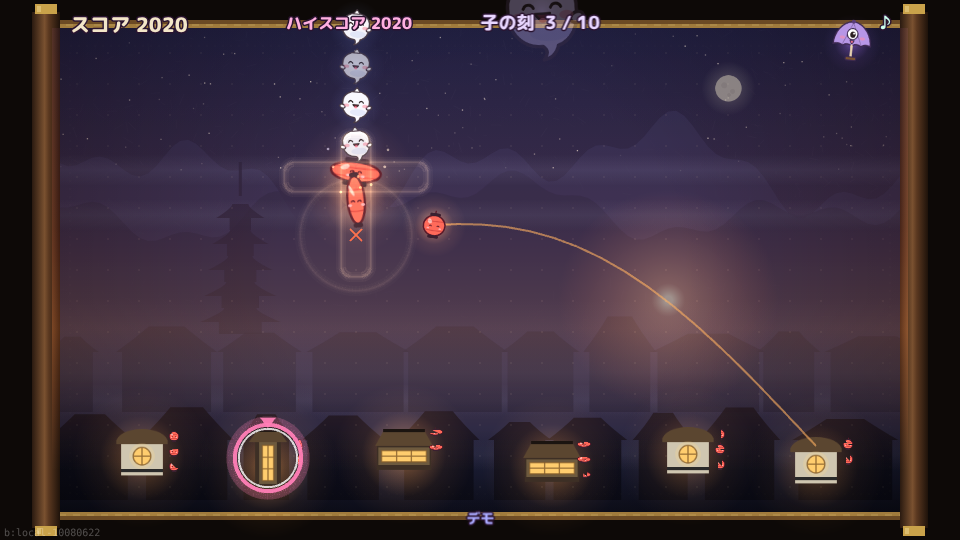
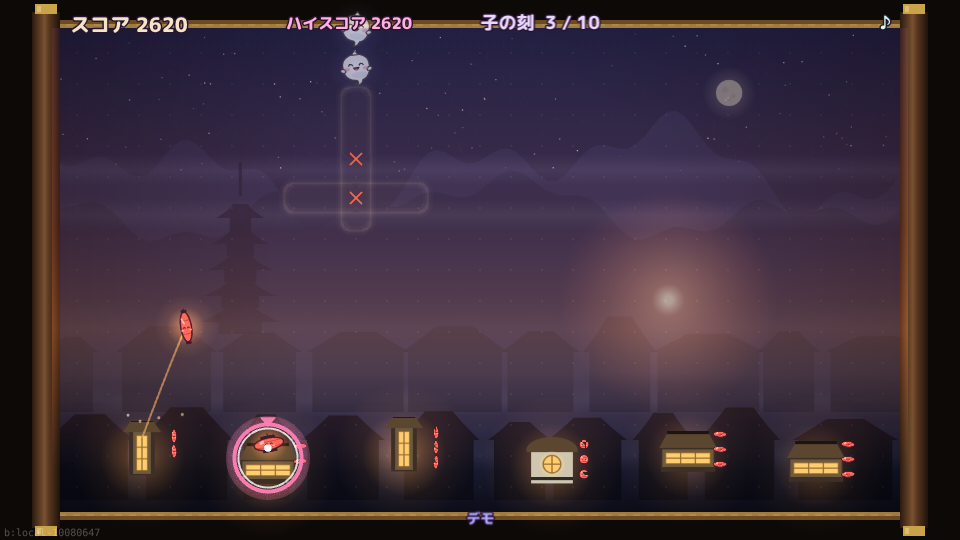
18 回目: コンボで高くきれいな鐘が上がる・締めのピンポンパーン・やられた声 5 種・やられた顔(＞＜ / ×)
Claude-Session: https://claude.ai/code/session_011ZQ4bN2MTkz7EzzsNRZLay

diff --git a/src/game/art.ts b/src/game/art.ts
@@ -75,6 +75,12 @@ export function makeArt(scene: Phaser.Scene) {
   make(scene, 'g_giant', 160, 170, (c) => { c.scale(2.5, 2.5); drawFuwa(c); });
   make(scene, 'g_oni', 64, 68, drawOnibi);
   make(scene, 'g_kasa', 64, 72, drawKarakasa);
+  // やられた顔(＞＜ や ×)
+  make(scene, 'g_fuwa_ko', 64, 68, (c) => drawFuwa(c, true));
+  make(scene, 'g_oni_ko', 64, 68, (c) => drawOnibi(c, true));
+  make(scene, 'g_kasa_ko', 64, 72, (c) => drawKarakasa(c, true));
+  make(scene, 'g_big_ko', 96, 102, (c) => { c.scale(1.5, 1.5); drawFuwa(c, true); });
+  make(scene, 'g_giant_ko', 160, 170, (c) => { c.scale(2.5, 2.5); drawFuwa(c, true); });
   make(scene, 'g_kirai', 50, 56, drawKage);
   make(scene, 'wisp', 32, 40, drawWisp);
   make(scene, 'portal', 72, 72, drawPortal);
@@ -354,7 +360,18 @@ function drawShapedHouse(c: Ctx, p: 'up' | 'down' | 'area' | 'hline' | 'vline' |
 }
 
 /** かわいい顔(点の目・ほっぺ・小さい口)。シンプルで丸い、かわいげのある顔 */
-function cuteFace(c: Ctx, cx: number, cy: number, spread: number, mouth: 'w' | 'o' | 'smile' | 'grin' = 'w', eyeR = 2.6, happyEyes = false) {
+function cuteFace(c: Ctx, cx: number, cy: number, spread: number, mouth: 'w' | 'o' | 'smile' | 'grin' = 'w', eyeR = 2.6, happyEyes = false, ko = false) {
+  if (ko) {
+    // やられた顔: 目が ＞＜、口はぽかん
+    c.strokeStyle = '#2b2020'; c.lineWidth = 2; c.lineCap = 'round'; c.lineJoin = 'round';
+    const e = eyeR * 1.3;
+    c.beginPath(); c.moveTo(cx - spread - e, cy - e); c.lineTo(cx - spread + e, cy); c.lineTo(cx - spread - e, cy + e); c.stroke();
+    c.beginPath(); c.moveTo(cx + spread + e, cy - e); c.lineTo(cx + spread - e, cy); c.lineTo(cx + spread + e, cy + e); c.stroke();
+    c.fillStyle = 'rgba(255,140,160,0.55)';
+    for (const s2 of [-1, 1]) { c.beginPath(); c.ellipse(cx + s2 * (spread + 6), cy + 5, 4.2, 2.6, 0, 0, 7); c.fill(); }
+    c.fillStyle = '#7a2a36'; c.beginPath(); c.ellipse(cx, cy + 6, 3, 3.6, 0, 0, 7); c.fill(); c.stroke();
+    return;
+  }
   if (happyEyes) {
     // にこっと閉じた目(∩ ∩)
     c.strokeStyle = '#2b2020'; c.lineWidth = 1.8; c.lineCap = 'round';
@@ -380,7 +397,7 @@ function cuteFace(c: Ctx, cx: number, cy: number, spread: number, mouth: 'w' | '
 }
 
 /** 幽霊: ころんと丸い白いおもち。小さい天冠と、ちょろっとしたしっぽ */
-function drawFuwa(c: Ctx) {
+function drawFuwa(c: Ctx, ko = false) {
   const ol = '#4a3c46';
   c.lineWidth = 2; c.strokeStyle = ol; c.lineJoin = 'round';
   c.fillStyle = '#fbfaff';
@@ -400,11 +417,11 @@ function drawFuwa(c: Ctx) {
   // 影でふんわり
   c.fillStyle = 'rgba(170,190,240,0.25)';
   c.beginPath(); c.ellipse(36, 48, 12, 5, 0, 0, 7); c.fill();
-  cuteFace(c, 32, 33, 8, 'grin', 2.6, true);
+  cuteFace(c, 32, 33, 8, 'grin', 2.6, true, ko);
 }
 
 /** 鬼火: ぷっくりした青緑の火の玉。ゆらっとした炎の先 */
-function drawOnibi(c: Ctx) {
+function drawOnibi(c: Ctx, ko = false) {
   const ol = '#1f4a42';
   const g = c.createRadialGradient(32, 42, 2, 32, 40, 26);
   g.addColorStop(0, '#e8fff4'); g.addColorStop(0.55, '#8ff0cc'); g.addColorStop(1, '#4cc8a4');
@@ -420,11 +437,11 @@ function drawOnibi(c: Ctx) {
   // 内側の明るい芯
   c.fillStyle = 'rgba(255,255,255,0.45)';
   c.beginPath(); c.ellipse(26, 36, 5, 7, -0.4, 0, 7); c.fill();
-  cuteFace(c, 32, 43, 8, 'grin');
+  cuteFace(c, 32, 43, 8, 'grin', 2.6, false, ko);
 }
 
 /** 唐傘: まるいむらさきの傘に、大きな一つ目とちいさい舌。一本足に下駄 */
-function drawKarakasa(c: Ctx) {
+function drawKarakasa(c: Ctx, ko = false) {
   const ol = '#3e2a52';
   c.lineWidth = 2; c.strokeStyle = ol; c.lineJoin = 'round';
   c.fillStyle = '#b796e6';
@@ -441,8 +458,14 @@ function drawKarakasa(c: Ctx) {
   // 大きな一つ目(点の目を大きくしたもの)+ ほっぺ + 舌
   c.fillStyle = '#fff'; c.strokeStyle = ol; c.lineWidth = 1.6;
   c.beginPath(); c.ellipse(32, 25, 8, 8.5, 0, 0, 7); c.fill(); c.stroke();
-  c.fillStyle = '#2b2020'; c.beginPath(); c.ellipse(32.5, 26, 4.2, 4.8, 0, 0, 7); c.fill();
-  c.fillStyle = '#fff'; c.beginPath(); c.arc(34, 24, 1.6, 0, 7); c.fill();
+  if (ko) {
+    // やられた顔: 大きな目が ×
+    c.strokeStyle = '#2b2020'; c.lineWidth = 2.4; c.lineCap = 'round';
+    c.beginPath(); c.moveTo(28.5, 21.5); c.lineTo(35.5, 28.5); c.moveTo(35.5, 21.5); c.lineTo(28.5, 28.5); c.stroke();
+  } else {
+    c.fillStyle = '#2b2020'; c.beginPath(); c.ellipse(32.5, 26, 4.2, 4.8, 0, 0, 7); c.fill();
+    c.fillStyle = '#fff'; c.beginPath(); c.arc(34, 24, 1.6, 0, 7); c.fill();
+  }
   c.fillStyle = 'rgba(255,140,170,0.55)';
   for (const s of [-1, 1]) { c.beginPath(); c.ellipse(32 + s * 15, 31, 4, 2.4, 0, 0, 7); c.fill(); }
   c.fillStyle = '#ff7a96'; c.strokeStyle = ol; c.lineWidth = 1.4;

diff --git a/src/game/sound.ts b/src/game/sound.ts
@@ -16,6 +16,18 @@ function rin(freq: number, gain = 0.05, delay = 0, dur = 1.2) {
   tone({ freq: freq * 2.71, dur: dur * 0.45, type: 'sine', gain: gain * 0.4, delay });
   tone({ freq: freq * 5.12, dur: dur * 0.18, type: 'sine', gain: gain * 0.18, delay });
 }
+/** きれいな高い鐘(ピン・ポン): 明るい倍音のベル + 「パ」のきらめき */
+function chime(freq: number, gain = 0.06, delay = 0, dur = 0.9) {
+  tone({ freq, dur, type: 'sine', gain, delay, attack: 0.002 });
+  tone({ freq: freq * 2, dur: dur * 0.6, type: 'sine', gain: gain * 0.45, delay, attack: 0.002 });
+  tone({ freq: freq * 3.01, dur: dur * 0.3, type: 'sine', gain: gain * 0.25, delay, attack: 0.002 });
+  tone({ freq: freq * 4.2, dur: dur * 0.15, type: 'triangle', gain: gain * 0.15, delay, attack: 0.001 });
+  noise({ dur: 0.08, gain: gain * 0.5, freq: 7000, q: 1.2, delay });
+}
+/** 明るい音階(長調の五音)。連爆の n 個目ほど上がる */
+const BRIGHT = [0, 2, 4, 7, 9, 12, 14, 16, 19, 21, 24, 26, 28];
+const brightNote = (k: number) => 880 * 2 ** (BRIGHT[Math.min(k, BRIGHT.length - 1)] / 12);
+
 /** 寺の鐘: 低く長い。少しずれた音が重なってうなる */
 function kane(freq: number, gain = 0.08, delay = 0, dur = 3.5) {
   tone({ freq, dur, type: 'sine', gain, delay, attack: 0.01 });
@@ -63,15 +75,19 @@ export const snd = {
    */
   break: (n: number) => {
     const step = MIYAKO[Math.min(n - 1, MIYAKO.length - 1)];
-    if (boomBuf) playSample(boomBuf, 0.55, 2 ** (step / 12));
+    if (boomBuf) playSample(boomBuf, n > 1 ? 0.4 : 0.55, 2 ** (step / 12));
     else noise({ dur: 0.25, gain: 0.07, freq: 3200, slide: 1500, q: 0.6 });
-    taiko(0.12, 0, 95 * 2 ** (step / 12));
+    taiko(n > 1 ? 0.08 : 0.12, 0, 95 * 2 ** (step / 12));
+    // 連爆: ピン・ポン・パーン…と、高くてきれいな鐘が明るい音階で上がっていく
+    if (n > 1) chime(brightNote(n - 2), 0.07, 0, 1.1);
   },
   burnout: () => noise({ dur: 0.4, gain: 0.06, freq: 600, q: 2 }),
   /** n 体目の成仏: 鈴が音階を上っていく */
   purify: (n: number) => rin(note(6 + Math.min(n - 1, 12)), 0.045, 0, 1.0),
   wispPop: () => rin(note(12), 0.02, 0, 0.4),
   chainEnd: (n: number) => {
+    // 3 体以上まとめて: 締めの「ピンポンパーン!」(高 → 低 → いちばん高く長く)
+    if (n >= 3) { chime(1318.5, 0.06, 0.05, 0.6); chime(1046.5, 0.06, 0.2, 0.6); chime(1568, 0.075, 0.38, 1.6); chime(2093, 0.04, 0.38, 1.4); }
     if (n < 4) return;
     [0, 2, 4, 7].forEach((k, i) => rin(note(10 + k), 0.04, i * 0.08, 1.6));
     if (n >= 6) kane(note(0) / 2, 0.05, 0.3, 2.5);
@@ -102,11 +118,24 @@ export const snd = {
 const MIYAKO = [0, 1, 5, 7, 8, 12, 13, 17, 19, 20, 24];
 let boomBuf: AudioBuffer | null = null;
 let voObake: AudioBuffer | null = null;
+/** やられた時のおばけの声(Open JTalk + Mei、高め) */
+const CRIES = ['yarareta', 'hya', 'uwaan', 'kyuu', 'maitta'];
+const cryBufs: AudioBuffer[] = [];
+let lastCry = 0, cryTurn = 0;
 /** 効果音のファイルを読んでおく(遊ぶ前に 1 回) */
 export function preloadSfx() {
   if (!boomBuf) loadBuffer('./audio/se_boom.mp3').then((b) => { boomBuf = b; });
   if (!voObake) loadBuffer('./audio/vo_obake.mp3').then((b) => { voObake = b; });
+  if (!cryBufs.length) for (const n of CRIES) loadBuffer(`./audio/vo_${n}.mp3`).then((b) => { if (b) cryBufs.push(b); });
 }
+/** おばけがやられた声。たくさん同時に倒れても、うるさくならないように間を空ける(声の高さを少しずつ変える) */
+export function cry(n: number) {
+  const now = audioNow();
+  if (now == null || !cryBufs.length || now - lastCry < 0.16) return;
+  lastCry = now;
+  playSample(cryBufs[cryTurn++ % cryBufs.length], 0.5, 1 + Math.min(n - 1, 8) * 0.04 + (cryTurn % 3) * 0.03);
+}
+
 /** 始まりの声「おばけが、くるぞー!」 */
 export function sayObake() { if (voObake) playSample(voObake, 0.9); }
 

diff --git a/src/scenes/Play.ts b/src/scenes/Play.ts
@@ -4,7 +4,7 @@ import Phaser from 'phaser';
 import { Game, DT, W, H, PLAY, HOUSE_R, encodeTaps, decodeTaps, type Ghost, type GameEvent, type Blast, type Piece, type GhostKind } from '../game/logic';
 import { readParams } from '../game/params';
 import { Bot } from '../game/bot';
-import { snd, bgmStart, bgmStop, bgmIntensity, preloadSfx, sayObake, beatPos } from '../game/sound';
+import { snd, bgmStart, bgmStop, bgmIntensity, preloadSfx, sayObake, beatPos, cry } from '../game/sound';
 import { txt, watchName } from '../game/view';
 import { PAPER } from '../game/art';
 import { onTap, onAim, onCancel } from '../ui/taps';
@@ -50,6 +50,7 @@ export class Play extends Phaser.Scene {
   private hi = 0;
   private hiText!: Phaser.GameObjects.Text;
   private nightK = 0;
+  private banners: Phaser.GameObjects.Text[] = [];
   private scoreText!: Phaser.GameObjects.Text;
   private watchText!: Phaser.GameObjects.Text;
   private chainText!: Phaser.GameObjects.Text;
@@ -66,7 +67,7 @@ export class Play extends Phaser.Scene {
 
   create() {
     expose('scene', 'Play');
-    this.ended = false; this.acc = 0; this.pending = []; this.hitstop = 0; this.nightK = 0; this.afterglow = [];
+    this.ended = false; this.acc = 0; this.pending = []; this.hitstop = 0; this.nightK = 0; this.afterglow = []; this.banners = [];
     this.gSprites.clear(); this.gGlows.clear(); this.lSprites.clear(); this.houseImgs = []; this.portalImgs = []; this.trails.clear();
 
     const replay = replayFromUrl();
@@ -248,6 +249,7 @@ export class Play extends Phaser.Scene {
       }
       case 'purify': {
         snd.purify(e.n);
+        cry(e.n);
         this.sparks.explode(5, e.x, e.y);
         this.popup(e.x, e.y - 14, `${e.pts}`, e.n >= 3 ? '#ffe27a' : '#f3e6c8', 13 + Math.min(e.n, 8));
         if (e.n >= 3) this.showChain(e.n, e.x, e.y);
@@ -366,7 +368,11 @@ export class Play extends Phaser.Scene {
 
   /** 大きな得点(連鎖ボーナス・編隊全滅)。昔のゲームのように、はっきり出す */
   private banner(s: string, x: number, y: number, color: string, size: number) {
-    const tx = this.add.text(0, Phaser.Math.Clamp(y - 60, 80, H - 90), s, txt(size, color, { strokeThickness: 6 })).setOrigin(0.5).setDepth(61).setScale(0.6);
+    // 同時に出た大きな文字は重ならないよう、下へずらして積む
+    this.banners = this.banners.filter((b) => b.active);
+    const yy = Phaser.Math.Clamp(y - 60, 80, H - 140) + this.banners.length * (size + 12);
+    const tx = this.add.text(0, yy, s, txt(size, color, { strokeThickness: 6 })).setOrigin(0.5).setDepth(61).setScale(0.6);
+    this.banners.push(tx);
     const half = tx.width / 2 + 80;
     tx.x = Phaser.Math.Clamp(x, half, W - half);
     this.tweens.add({ targets: tx, scale: 1, duration: 180, ease: 'Back.Out' });
@@ -470,8 +476,13 @@ export class Play extends Phaser.Scene {
     for (const [id, s] of this.gSprites) {
       if (seenG.has(id)) continue;
       this.gSprites.delete(id);
-      // 消える時: 上へ昇って薄れる(成仏)/ 家に吸い込まれる
-      this.tweens.add({ targets: s, y: s.y - 30, alpha: 0, scale: 0.6, duration: 450, onComplete: () => s.destroy() });
+      // やられた: 目が ＞＜(唐傘は ×)になって、くるっと回りながらぴょんと跳ね、昇って消える
+      const ko = `${s.texture.key}_ko`;
+      if (this.textures.exists(ko)) s.setTexture(ko);
+      const sc = s.scaleX;
+      this.tweens.add({ targets: s, scaleX: sc * 1.25, scaleY: sc * 0.8, duration: 70, yoyo: true });
+      this.tweens.add({ targets: s, y: s.y - 46, angle: s.angle + (id % 2 ? 360 : -360), duration: 650, ease: 'Quad.Out' });
+      this.tweens.add({ targets: s, alpha: 0, scale: sc * 0.5, delay: 380, duration: 420, onComplete: () => s.destroy() });
     }
 
     this.fx.clear();

diff --git a/CREDITS.md b/CREDITS.md
@@ -7,7 +7,7 @@
 |---|---|---|---|---|---|---|
 | 絵すべて(巻物・夜の都の遠景・家・提灯・おばけ 3 種・月) | 手続き生成のコード(Claude が書いた Canvas2D の描画) | `src/game/art.ts` | この repo のライセンス | 不要 | 全画面 | |
 | BGM サイバー16 | 魔王魂(森田交一)の配布音源 | https://maou.audio/bgm_cyber16/ | CC BY 4.0(魔王魂の規約も可) | 音楽：魔王魂 | 遊ぶ間の BGM(`public/audio/bgm_play.mp3`。112kbps に変換) | |
-| 始まりの声「おばけが、くるぞー!」 | Open JTalk(pyopenjtalk)で合成。声は HTS Voice「Mei」(mei_happy、半音 +3) | http://www.mmdagent.jp/ | Mei: CC BY 3.0(Copyright (c) 2009-2018 Nagoya Institute of Technology)/ Open JTalk: 修正 BSD | HTS Voice "Mei" (c) Nagoya Institute of Technology, CC BY 3.0 | `public/audio/vo_obake.mp3` | |
+| 始まりの声「おばけが、くるぞー!」とやられた声(やられたー・ひゃー・うわーん・きゅうー・まいったー) | Open JTalk(pyopenjtalk)で合成。声は HTS Voice「Mei」(mei_happy / sad / bashful、半音 +3〜+7) | http://www.mmdagent.jp/ | Mei: CC BY 3.0(Copyright (c) 2009-2018 Nagoya Institute of Technology)/ Open JTalk: 修正 BSD | HTS Voice "Mei" (c) Nagoya Institute of Technology, CC BY 3.0 | `public/audio/vo_*.mp3` | |
 | 弾ける音「ばしゅーん」 | Kenney「Sci-Fi Sounds」の laserLarge_001 と lowFrequency_explosion_001 を ffmpeg で重ねたもの | https://kenney.nl/assets/sci-fi-sounds | CC0 | 不要(任意: Kenney) | 提灯が弾ける音(`public/audio/se_boom.mp3`) | |
 | ほかの効果音すべて(太鼓・鈴・拍子木・寺の鐘・逃げる人の叫び声など) | 手続き生成のコード(Claude が書いた WebAudio 合成。残響も合成) | `src/game/sound.ts` `src/core/audio.ts` | この repo のライセンス | 不要 | 全場面 | |
 | 文字「Mochiy Pop One」(タイトル・見出し)「M PLUS Rounded 1c」(ほかの文字) | Google Fonts から読み込み | https://fonts.google.com/ | SIL Open Font License 1.1 | 不要 | 文字(読めない時は端末の丸ゴシック) | |

diff --git a/SPEC.md b/SPEC.md
@@ -28,6 +28,8 @@
 - 得点: 1 回の光と誘爆の n 体目は 10 × n 点。3 連以上は連鎖ボーナス 50 ×(n-2)²。一緒に来た編隊を一度に全部倒すと編隊ボーナス 100 × 数 × 刻(大きく表示)。ハイスコアを画面上に出す。8 連以上で消えた家が 1 つ戻る。
 - 刻(src/game/waves.ts): **全 10 刻でクリア**。1・2 刻目は少なめでサクサク、いろんなおばけの顔見世。3 刻目から型を重ねる(一列 / 横並び / 段 / 横渡り / 交差 / 輪 / 大入道 / せき止め)。
 - 空: タイトルと 1 刻目は夕焼け、5 刻目までにだんだん夜になり、月が昇る。
+- やられたおばけは目が ＞＜(唐傘は ×)になって口をぽかんと開け、くるっと回って昇って消える。声で「やられたー!」「ひゃー!」など(たくさん倒れてもうるさくならないよう間を空ける)。
+- 連爆の音: 2 つ目からは高くてきれいな鐘が明るい音階で上がっていき(ピン・ポン・パーン…)、3 体以上まとめると締めに「ピンポンパーン!」。
 - 弾けた所は花火のように(連爆すると、大きく虹色の花火が真ん中でも開き、画面が少し揺れる)、色とりどりの火の粉が開いて、ゆっくり落ちながら消える。光の形もしばらく余韻が残る。
 - 文字: アーケードのように軽く。タイトルはポップで大きい虹色のロゴ(Mochiy Pop One)、説明はひとこと + 操作(スマホ / PC)だけ。
 - 提灯: 平らな色・太いふち・にっこり顔のポップな絵。
